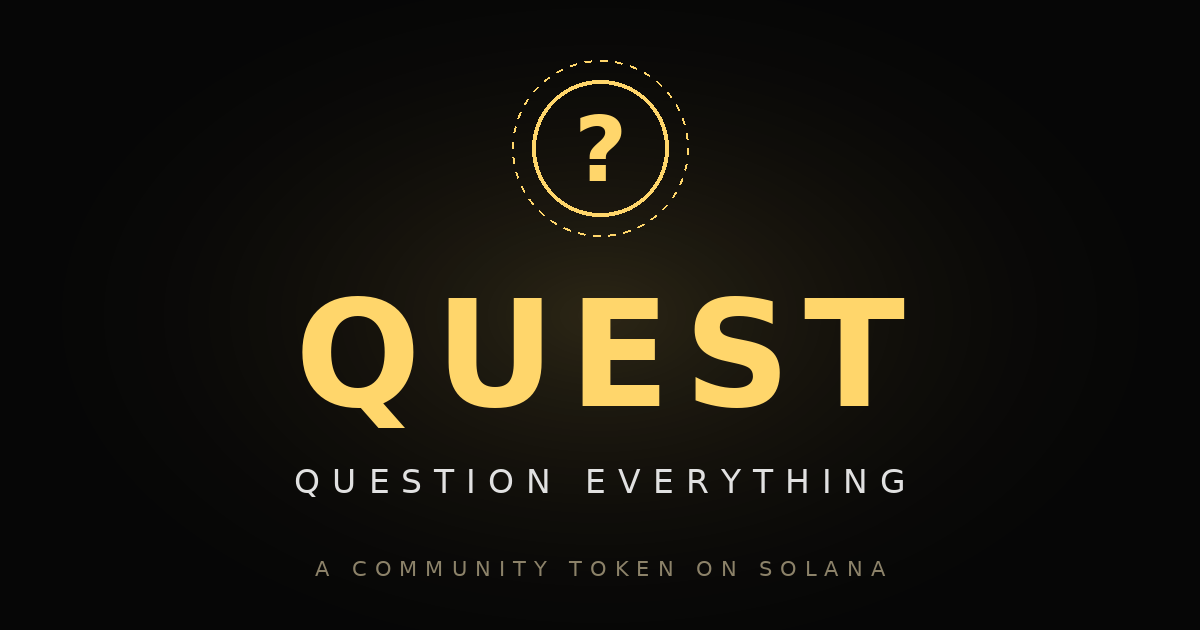
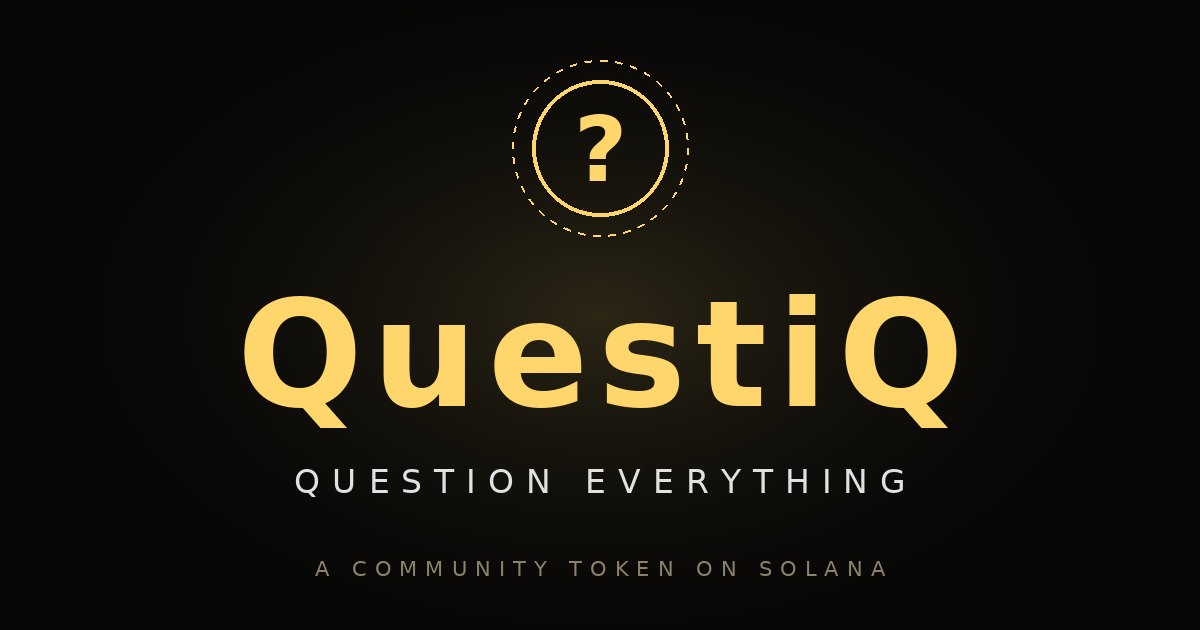
Add files via upload

Changed region(s): [[0.185, 0.4524, 0.8017, 0.6937]]

diff --git a/index.html b/index.html
@@ -4,8 +4,8 @@
 <meta charset="UTF-8">
 <meta name="viewport" content="width=device-width, initial-scale=1.0">
 
-<title>QUEST | Question Everything — Community Token on Solana</title>
-<meta name="description" content="QUEST is a community-driven token on Solana for independent thinkers. Fair launch, transparent allocation, and a community built on curiosity and critical thinking.">
+<title>QuestiQ | Question Everything — Community Token on Solana</title>
+<meta name="description" content="QuestiQ is a community-driven token on Solana for independent thinkers. Fair launch, transparent allocation, and a community built on curiosity and critical thinking.">
 <meta name="theme-color" content="#060606">
 
 <!-- ============================================================
@@ -17,12 +17,12 @@
 
 <!-- Social sharing (Open Graph / Twitter cards) -->
 <meta property="og:type" content="website">
-<meta property="og:title" content="QUEST | Question Everything">
+<meta property="og:title" content="QuestiQ | Question Everything">
 <meta property="og:description" content="A community-driven Solana token for independent thinkers. Think for yourself. Question everything.">
 <meta property="og:url" content="https://your-domain.com/"> <!-- TODO: replace with live domain -->
 <meta property="og:image" content="https://your-domain.com/og-image.png"> <!-- TODO: 1200x630 image, absolute URL -->
 <meta name="twitter:card" content="summary_large_image">
-<meta name="twitter:title" content="QUEST | Question Everything">
+<meta name="twitter:title" content="QuestiQ | Question Everything">
 <meta name="twitter:description" content="A community-driven Solana token for independent thinkers.">
 <meta name="twitter:image" content="https://your-domain.com/og-image.png"> <!-- TODO -->
 
@@ -216,7 +216,7 @@ body.nav-open .nav-toggle span:nth-child(3){transform:translateY(-7px) rotate(-4
 
 /* Hero emblem
    TODO (optional): replace the <svg> in the hero with
-   <img src="logo.png" alt="QUEST logo"> once the file is hosted. */
+   <img src="logo.png" alt="QuestiQ logo"> once the file is hosted. */
 
 .emblem{
   width:min(420px,80%);
@@ -530,7 +530,7 @@ footer{
 
 <header>
 
-  <a class="logo" href="#top" aria-label="QUEST — back to top">QUEST</a>
+  <a class="logo" href="#top" aria-label="QuestiQ — back to top">QuestiQ</a>
 
   <button class="nav-toggle" aria-label="Open menu" aria-expanded="false" aria-controls="site-nav">
     <span></span><span></span><span></span>
@@ -558,22 +558,22 @@ footer{
     </h1>
 
     <p>
-      QUEST is a community-driven token built for independent thinkers,
+      QuestiQ is a community-driven token built for independent thinkers,
       curious minds, and people who believe knowledge grows through
       questions—not assumptions.
     </p>
 
     <div class="buttons">
       <a class="btn primary" href="#">Buy on FOMO</a> <!-- TODO: live FOMO launch link -->
-      <a class="btn secondary" href="#">Join Telegram</a> <!-- TODO: Telegram invite link -->
+      <a class="btn secondary" href="#">Buy on Pump.fun</a> <!-- TODO: Pump.fun coin link -->
     </div>
 
   </div>
 
   <div class="reveal">
     <!-- Self-contained emblem so nothing shows broken.
-         TODO (optional): swap for <img src="logo.png" alt="QUEST logo"> -->
-    <svg class="emblem" viewBox="0 0 300 300" role="img" aria-label="QUEST emblem" xmlns="http://www.w3.org/2000/svg">
+         TODO (optional): swap for <img src="logo.png" alt="QuestiQ logo"> -->
+    <svg class="emblem" viewBox="0 0 300 300" role="img" aria-label="QuestiQ emblem" xmlns="http://www.w3.org/2000/svg">
       <defs>
         <radialGradient id="halo" cx="50%" cy="50%" r="50%">
           <stop offset="0%" stop-color="#FFD66B" stop-opacity=".35"/>
@@ -596,7 +596,7 @@ footer{
 
 <section class="section" id="about">
 
-  <h2 class="title reveal">Why QUEST?</h2>
+  <h2 class="title reveal">Why QuestiQ?</h2>
 
   <div class="cards">
 
@@ -628,8 +628,8 @@ footer{
     <div class="token-box reveal">
       <h3>Overview</h3>
       <ul>
-        <li><span>Token Name</span><strong>Question Everything</strong></li>
-        <li><span>Ticker</span><strong>QUEST</strong></li>
+        <li><span>Token Name</span><strong>QuestiQ</strong></li>
+        <li><span>Ticker</span><strong>QUESTIQ</strong></li>
         <li><span>Blockchain</span><strong>Solana</strong></li>
         <li><span>Total Supply</span><strong>1,000,000,000</strong></li>
         <li><span>Decimals</span><strong>9</strong></li>
@@ -702,7 +702,7 @@ footer{
   <h2 class="reveal">Join the Movement</h2>
 
   <p class="reveal">
-    QUEST isn't just about a token—it's about building a community around
+    QuestiQ isn't just about a token—it's about building a community around
     critical thinking, curiosity, and collaboration.
   </p>
 
@@ -717,7 +717,7 @@ footer{
   <div class="cards">
 
     <div class="card reveal">
-      <h3>What is QUEST?</h3>
+      <h3>What is QuestiQ?</h3>
       <p>A Solana-based community token focused on education, critical thinking, and participation.</p>
     </div>
 
@@ -739,9 +739,9 @@ footer{
 
 <footer>
 
-  <p class="foot-brand">QUEST</p>
+  <p class="foot-brand">QuestiQ</p>
 
-  <p class="copyright">© <span id="year">2026</span> QUEST · Question Everything</p>
+  <p class="copyright">© <span id="year">2026</span> QuestiQ · Question Everything</p>
 
   <div class="socials">
     <a href="#">X</a> <!-- TODO: X profile URL -->
@@ -751,7 +751,7 @@ footer{
   </div>
 
   <p class="disclaimer">
-    QUEST is a community token created for entertainment and community
+    QuestiQ is a community token created for entertainment and community
     participation. Nothing on this site is financial advice. Digital assets
     are volatile and carry risk—always do your own research.
   </p>

diff --git a/README.md b/README.md
@@ -1,16 +1,16 @@
-# QUEST — Question Everything
+# QuestiQ — Question Everything
 
-Landing page for **QUEST**, a community-driven token on Solana.
+Landing page for **QuestiQ**, a community-driven token on Solana.
 
 Single-file static site — pure HTML/CSS/JS, no build step, no dependencies.
 
 ## Deploy on GitHub Pages
 
-1. Create a new repository (e.g. `quest-site`)
+1. Create a new repository (e.g. `questiq-site`)
 2. Upload everything in this folder to the repo root
 3. Go to **Settings → Pages**
 4. Under **Build and deployment**, set Source to **Deploy from a branch**, choose **main** and **/ (root)**, then Save
-5. The site goes live in about a minute at `https://YOUR-USERNAME.github.io/quest-site/`
+5. The site goes live in about a minute at `https://YOUR-USERNAME.github.io/questiq-site/`
 
 ### Custom domain (optional)
 
@@ -25,7 +25,7 @@ Single-file static site — pure HTML/CSS/JS, no build step, no dependencies.
 Search `index.html` for **TODO** — every placeholder is tagged:
 
 - [ ] Buy buttons → live FOMO launch link (hero + CTA section)
-- [ ] Telegram button in the hero
+- [ ] "Buy on Pump.fun" button in the hero → Pump.fun coin link
 - [ ] Footer social links: X, Telegram, Discord, GitHub
 - [ ] `og:url` → your live URL
 - [ ] `og:image` / `twitter:image` → `https://YOUR-LIVE-URL/og-image.png` (a placeholder image is included in this repo — replace it with branded art anytime)